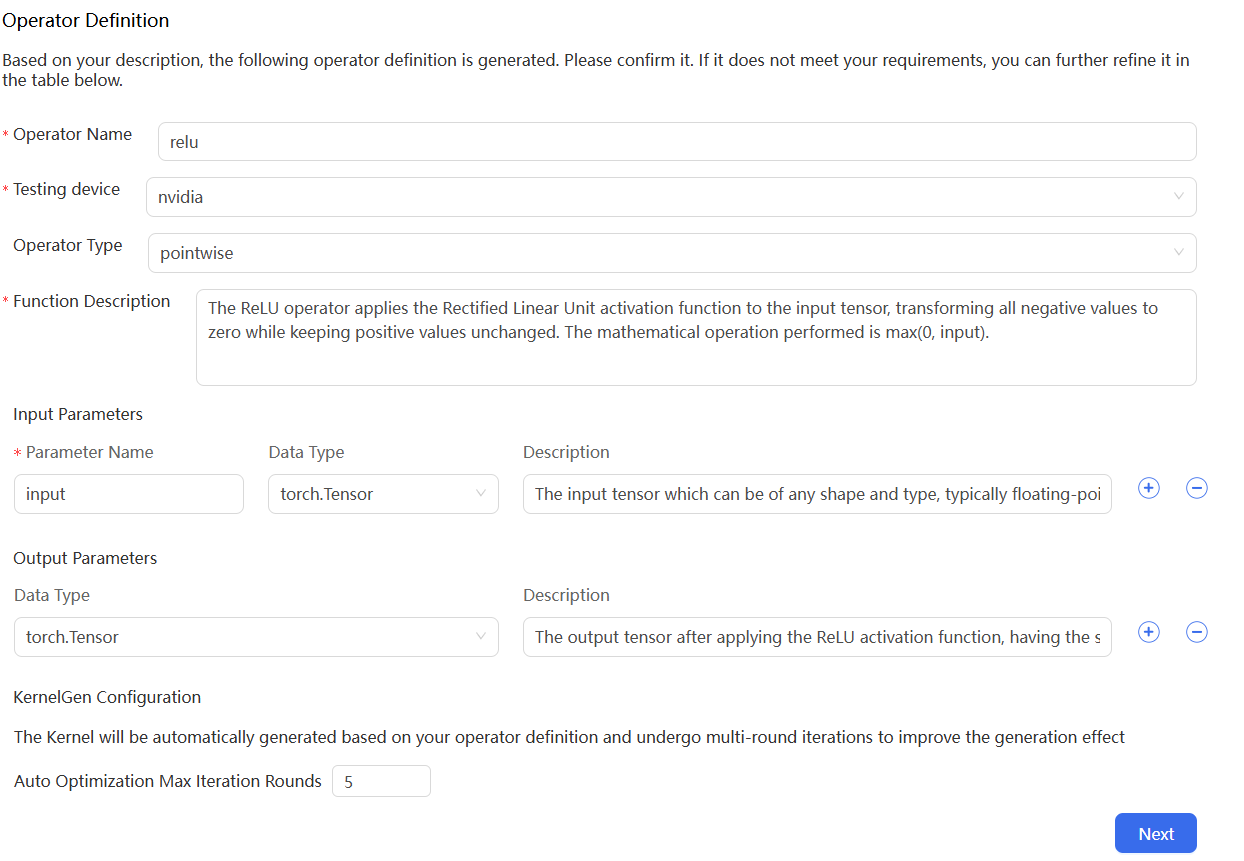
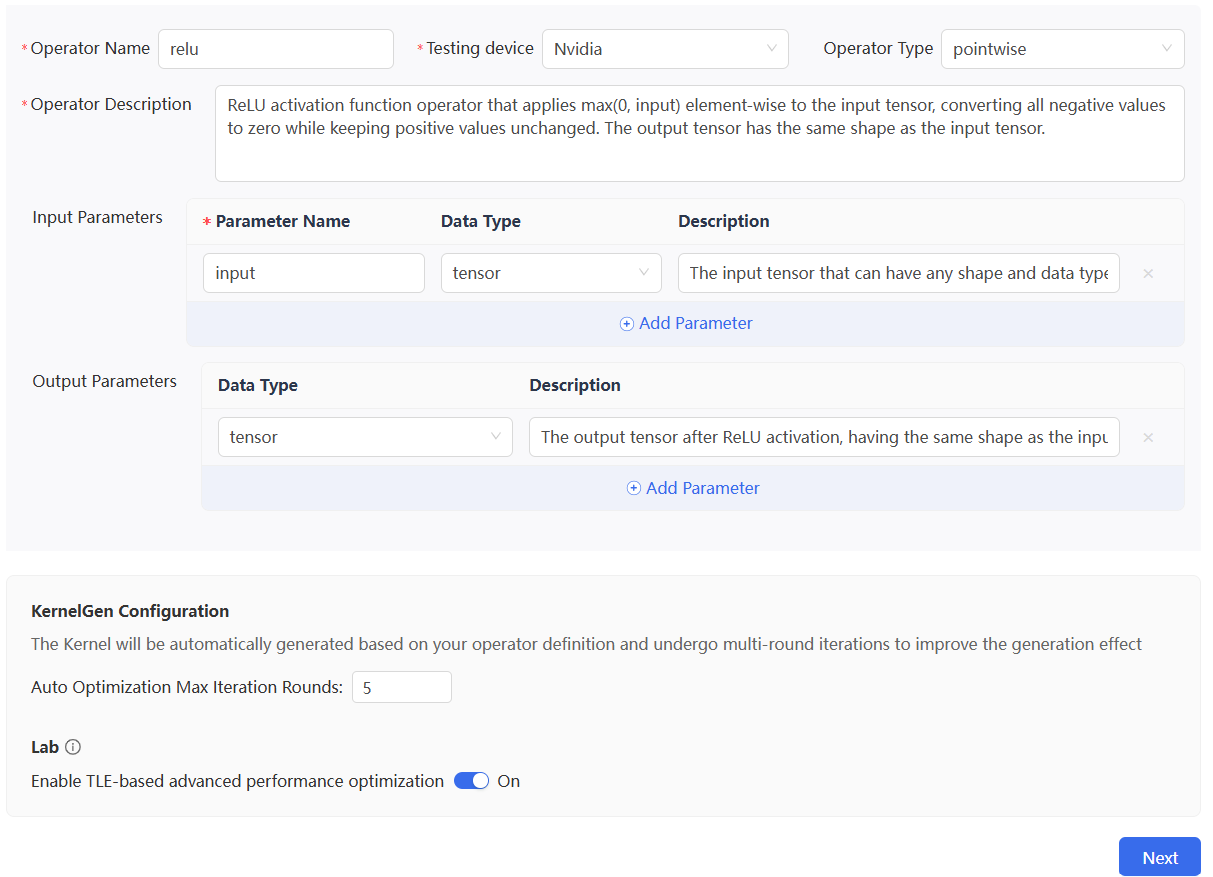
Added TLE for web ui

diff --git a/docs/en/web_user_guide/generate-triton-kernels-through-your-operator-definitions.md b/docs/en/web_user_guide/generate-triton-kernels-through-your-operator-definitions.md
@@ -14,7 +14,7 @@ On the welcome page, perform the following steps to generate Kernels:
    - input parameters and data type
    - output parameters and data type
 
-    KernelGen searches for a list of GitHub repositories to find code snippets similar to the operator definitions. For more information about the list of GitHub repositories, see [Repository list](../search-repo-list.md).
+    KernelGen searches for a list of GitHub repositories to find code snippets similar to the operator definitions. For more information about the list of GitHub repositories, see [Repository list](../references/search-repo-list.md).
 
 2. Click each URL to view the corresponding code snippet in the right panel.
 
@@ -30,7 +30,7 @@ On the welcome page, perform the following steps to generate Kernels:
 
 5. On the operator definition and configuration page, modify the following parameters and configuration if needed, and then click **Next**：
 
-   - In the **Operator Definition** section, modify the following parameters:
+   - Modify the following parameters:
      - **Operator Name**: Extracted from your operator definitions.
      - **Testing device**: The operator testing device. This is different from the operator generation device you included in your prompts.
      - **Operator Type**: Inferred from your operator definitions.
@@ -40,13 +40,16 @@ On the welcome page, perform the following steps to generate Kernels:
 
    - In the **KernelGen Configuration** section, modify the following configuration:
      - **Auto Optimization Max Iteration Rounds**: The maximum number of iterations KernelGen attempts to pass the correctness test.
+
+   - In the **Lab** section, modify the following configuration:
+     - **Enable TLE-based Advanced Performance Optimization**: Introduces Triton-TLE primitives for performance optimization. This is an experimental feature and is enabled by default.
    ![alt text](../assets/images/operator-definition-en.png)
 
 6. In the confirmation dialogue box, click **Confirm**.
 
-   KernelGen begins to perform Kernel code generation, CUDA implementation, Correctness Test, and Speedup Ratio Test.
+   KernelGen begins to perform Kernel code generation, CUDA baseline implementation, Correctness Test, and Speedup Ratio Test.
 
-7. In the **KernelGen** panel on the right, check the statuses of the **Kernel**, **CUDA Implementation**, **Correctness Test**, and **Speedup Ratio Test**.
+7. In the **KernelGen** panel on the right, check the statuses of the **Kernel**, **CUDA Baseline Implementation**, **Correctness Test**, and **Speedup Ratio Test**.
 
    The statuses turn to **Generating**.
 

diff --git a/docs/zh/web_user_guide/generate-triton-kernels-through-your-operator-definitions.md b/docs/zh/web_user_guide/generate-triton-kernels-through-your-operator-definitions.md
@@ -23,12 +23,12 @@
    - 要查看原始需求，请关闭此面板，然后点击顶部的 **展开查看原始需求**。
   ![alt text](../assets/images/codesnippet-ch.png)
 
-1. 选择一个或多个仓库 URL 以供参考，或选择直接生成复选框，然后点击 **下一步**。
+3. 选择一个或多个仓库 URL 以供参考，或选择直接生成复选框，然后点击 **下一步**。
    ![alt text](../assets/images/search-urls-ch.png)
-2. 在确认对话框中，点击 **确认**。
+4. 在确认对话框中，点击 **确认**。
 
-3. 在算子定义和配置页面上，根据需要修改以下参数和配置，然后点击 **下一步**：
-   - 在 **算子定义** 部分，修改以下参数：
+5. 在算子定义和配置页面上，根据需要修改以下参数和配置，然后点击 **下一步**：
+   - 修改以下参数：
      - **算子名称**：从您的算子定义中提取。
      - **评测设备**：算子评测设备。这与您在提示词中包含的算子生成设备不同。
      - **算子类型**：根据您的算子定义推断。
@@ -37,12 +37,15 @@
      - **输出参数**：从您的算子定义中提取。
    - 在 **KernelGen 配置** 部分，修改以下配置：
      - **自动优化最大迭代轮次**：KernelGen 尝试通过正确性测试的最大迭代次数。
+
+   - 在 **实验室**部分，修改以下配置：  
+     - **是否打开基于TLE的高阶性能优化**：引入Triton-TLE原语进行性能优化。该功能为实验性功能，默认开启。
    ![alt text](../assets/images/operator-definition-ch.png)
-4. 在确认对话框中，点击 **确认**。
+6. 在确认对话框中，点击 **确认**。
 
    KernelGen 开始执行Kernel代码生成、CUDA 版基准实现、正确性测例和加速比测试。
 
-5. 在右侧的 **KernelGen** 面板中，检查 **Kernel**、**CUDA版基准实现**、**正确性测例** 和 **加速比测例** 的状态。
+7. 在右侧的 **KernelGen** 面板中，检查 **Kernel**、**CUDA版基准实现**、**正确性测例** 和 **加速比测例** 的状态。
 
    状态将变为 **生成中**。
 
